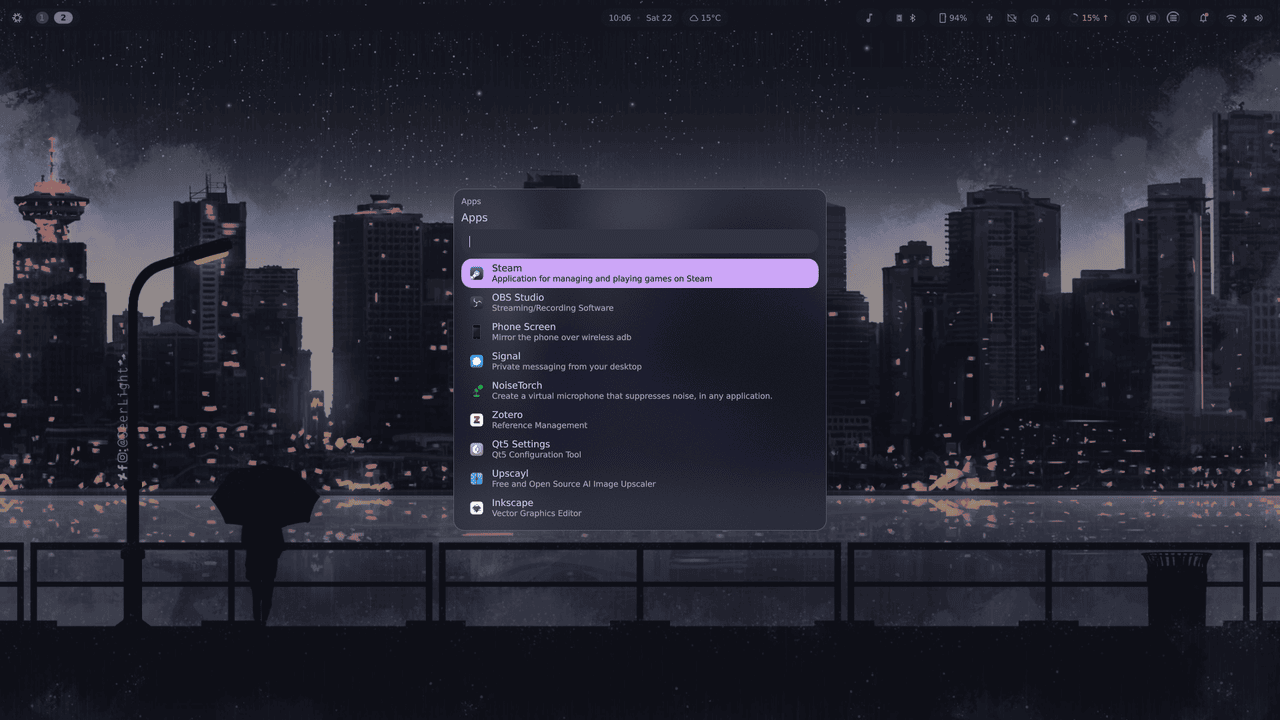
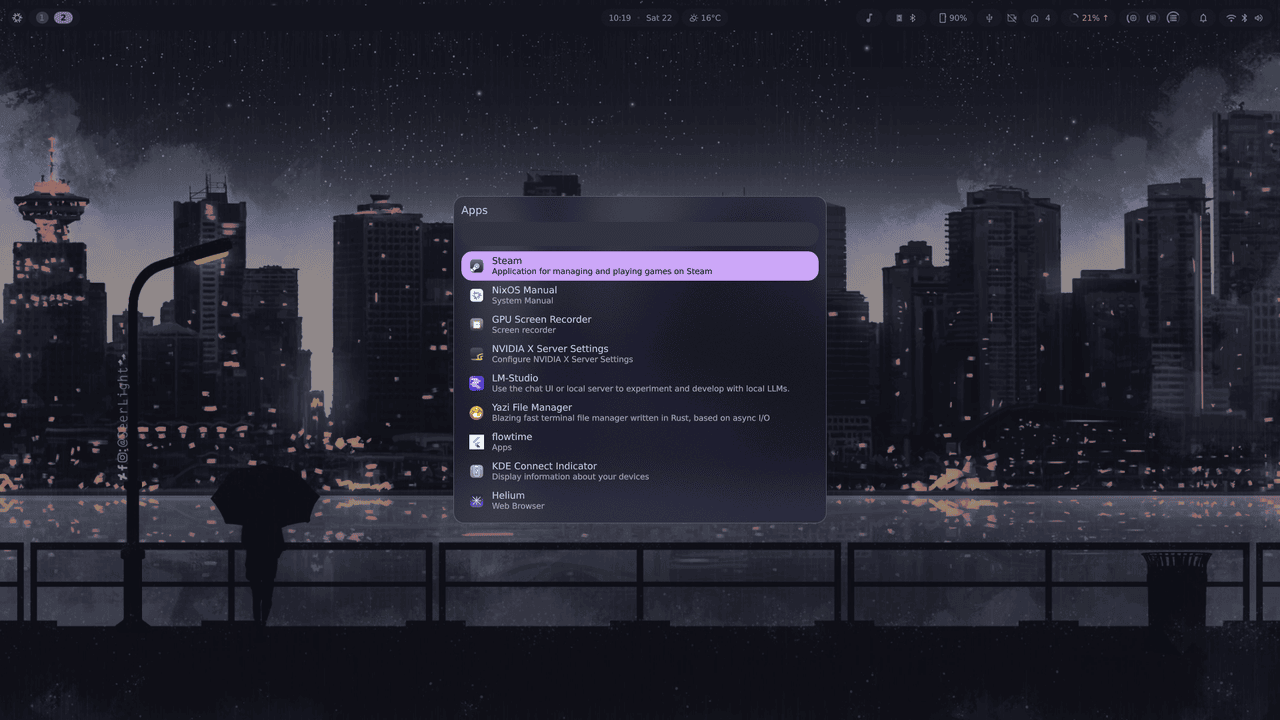
fix(dankmenu): show the search placeholder, drop the redundant breadcrumb
The placeholder was a child of the TextInput, which paints its own text
layer over its children, so it never rendered -- the field just looked
empty. It is a sibling of the field now, and names the level you are in
("Search Apps") rather than only "Search".

One level deep the breadcrumb just repeated the title underneath it, so
it only shows from two levels down.

Screenshot retaken with both fixed.

Claude-Session: https://claude.ai/code/session_01RDbWFdemczsHWsZsf4me35

diff --git a/plugins/dankmenu/MenuWindow.qml b/plugins/dankmenu/MenuWindow.qml
@@ -318,6 +318,19 @@ PanelWindow {
                         radius: Theme.cornerRadius
                         color: Theme.surfaceContainerHigh
 
+                        // Sibling of the field rather than a child of it: a
+                        // TextInput paints its own text layer over its children,
+                        // so a placeholder nested inside it never shows.
+                        StyledText {
+                            anchors.left: parent.left
+                            anchors.leftMargin: Theme.spacingM
+                            anchors.verticalCenter: parent.verticalCenter
+                            visible: searchInput.text === ""
+                            text: root.currentId ? "Search " + root.headerTitle : "Search"
+                            color: Theme.surfaceVariantText
+                            font.pixelSize: Theme.fontSizeMedium
+                        }
+
                         TextInput {
                             id: searchInput
 
